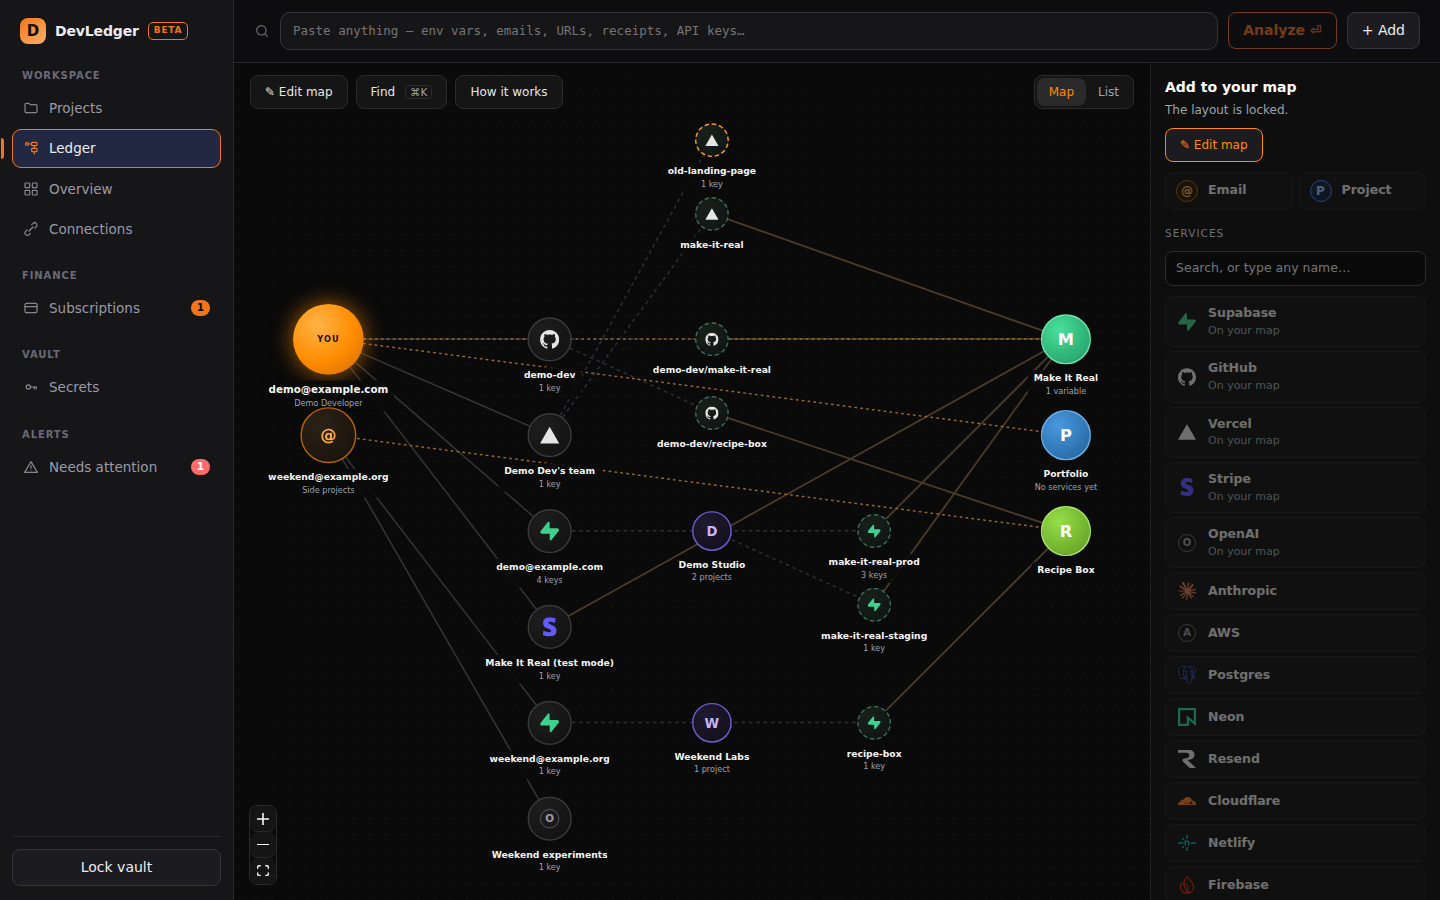
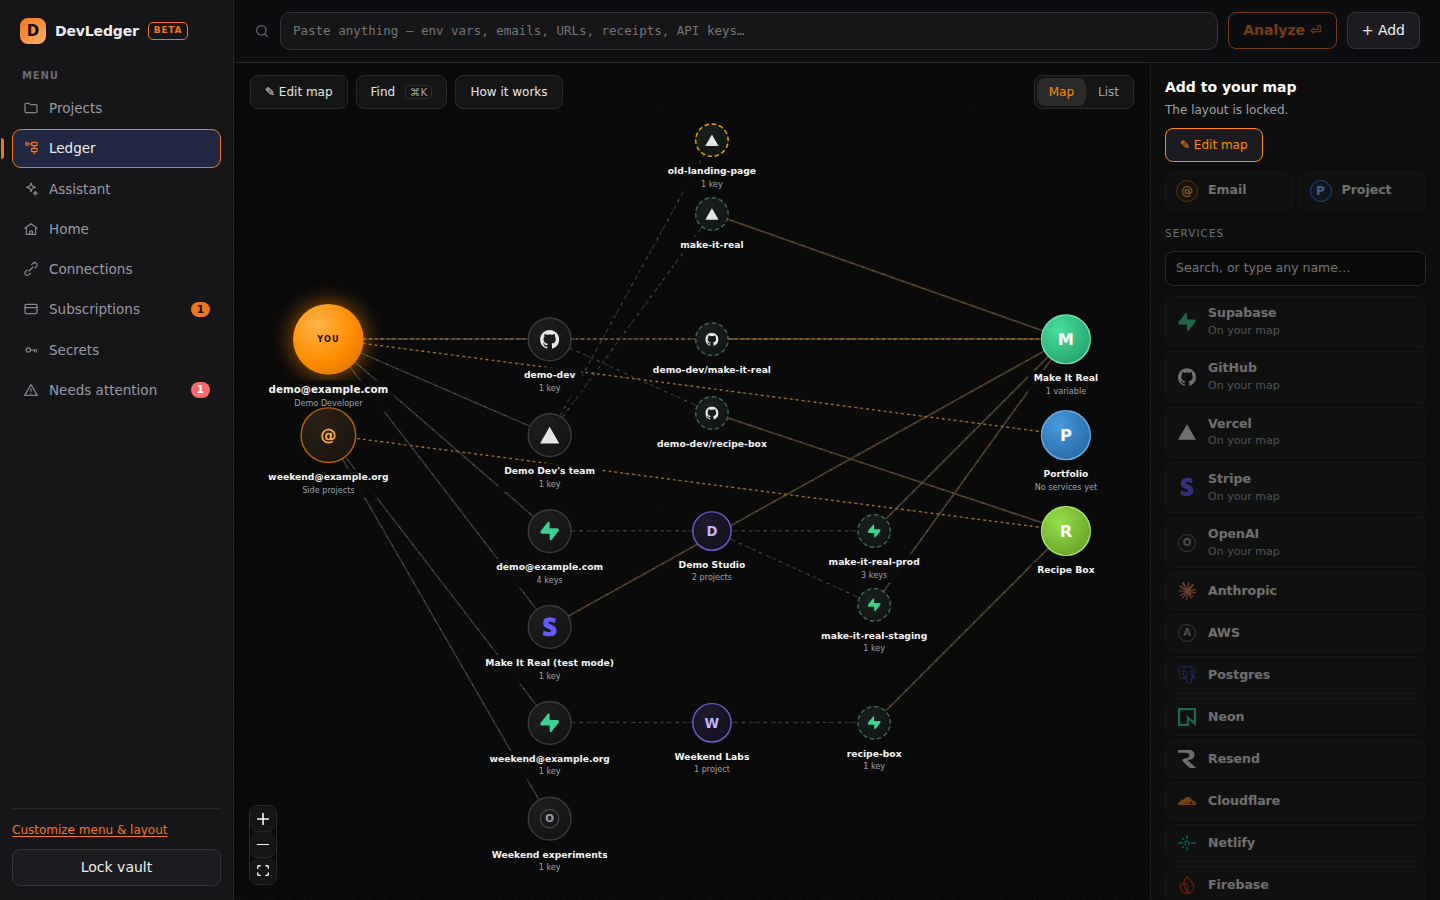
v0.14.0: smoother on a phone, a fresher landing page (#55)
A sweep of every screen at phone width, and the release that carries Home,
templates and the web app to the desktop and Android builds.

- Phone: secrets, project variables and subscriptions become cards instead of
  tables cut off at the right edge, so Copy and Reveal are always in reach.
  Page headers stack their action under the title.
- The Ledger opens as the list on a phone-sized screen, where the whole map is
  too small to read; the map is one tap away and the choice is remembered.
- In the browser builds, a project's page drops its Smart Paste box, which
  could only refuse there.
- Landing page: three new cards (your own layout, on your phone, you can
  always leave) and fresh screenshots of the map and of Home on a phone.
- SECURITY.md says where the layout lives and what a shared template carries.
- README: what is new in 0.14; links point at devledger.nyttolabs.com.
- Version 0.14.0.

Claude-Session: https://claude.ai/code/session_01JdSEbfq5oscHXzX9rbuySh

diff --git a/apps/desktop/src/components/Projects.tsx b/apps/desktop/src/components/Projects.tsx
@@ -2,6 +2,7 @@ import { lazy, Suspense, useEffect, useMemo, useRef, useState } from "react";
 
 import * as api from "../lib/api";
 import { formatTime, plural } from "../lib/format";
+import { WEB } from "../lib/platform";
 import { pasteHints } from "../lib/pasteHints";
 import type { ProjectSummary } from "../lib/types";
 
@@ -315,36 +316,39 @@ function ProjectDetail({
 
       {tab === "overview" ? (
         <div className="vp-overview">
-          <section className="vp-paste" aria-label="Paste">
-            <textarea
-              aria-label={`Paste into ${name}`}
-              placeholder={`Paste a .env file, an API key (re_…, sk_…) or a few lines about ${name}. DevLedger works out what it is and files it here.`}
-              spellCheck={false}
-              value={text}
-              onChange={(e) => setText(e.target.value)}
-              onKeyDown={(e) => {
-                if (e.key === "Enter" && (e.metaKey || e.ctrlKey)) analyze();
-              }}
-            />
-            <div className="vp-paste-foot">
-              <span className="vp-hints" aria-live="polite">
-                {hints.length === 0
-                  ? text.trim()
-                    ? "Nothing recognised yet — analysis may still find something."
-                    : "Detects .env lines, Resend, Stripe, Anthropic, OpenAI and GitHub keys."
-                  : hints.map((h) => (
-                      <span key={h.label} className="vp-hint">
-                        {h.count > 1 ? `${h.count} × ` : ""}
-                        {h.label}
-                      </span>
-                    ))}
-              </span>
-              <span className="spacer" />
-              <button type="button" className="primary" onClick={analyze} disabled={!text.trim() || analyzing}>
-                {analyzing ? "Analyzing…" : `Add to ${name}`}
-              </button>
-            </div>
-          </section>
+          {/* Smart Paste needs the desktop app; in the browser this box could only refuse. */}
+          {!WEB && (
+            <section className="vp-paste" aria-label="Paste">
+              <textarea
+                aria-label={`Paste into ${name}`}
+                placeholder={`Paste a .env file, an API key (re_…, sk_…) or a few lines about ${name}. DevLedger works out what it is and files it here.`}
+                spellCheck={false}
+                value={text}
+                onChange={(e) => setText(e.target.value)}
+                onKeyDown={(e) => {
+                  if (e.key === "Enter" && (e.metaKey || e.ctrlKey)) analyze();
+                }}
+              />
+              <div className="vp-paste-foot">
+                <span className="vp-hints" aria-live="polite">
+                  {hints.length === 0
+                    ? text.trim()
+                      ? "Nothing recognised yet — analysis may still find something."
+                      : "Detects .env lines, Resend, Stripe, Anthropic, OpenAI and GitHub keys."
+                    : hints.map((h) => (
+                        <span key={h.label} className="vp-hint">
+                          {h.count > 1 ? `${h.count} × ` : ""}
+                          {h.label}
+                        </span>
+                      ))}
+                </span>
+                <span className="spacer" />
+                <button type="button" className="primary" onClick={analyze} disabled={!text.trim() || analyzing}>
+                  {analyzing ? "Analyzing…" : `Add to ${name}`}
+                </button>
+              </div>
+            </section>
+          )}
 
           <section className="vp-tree" aria-label={`What ${name} runs on`}>
             <Suspense fallback={<div className="empty">Loading…</div>}>

diff --git a/apps/desktop/src/styles.css b/apps/desktop/src/styles.css
@@ -1764,3 +1764,32 @@ select option { background: var(--panel); color: var(--text); }
   .pastebar-note { display: none; }
   .pastebar-web .add-anything-btn { flex: 1; padding: 10px; font-size: 14px; }
 }
+
+/* ---- phone: tables become cards ------------------------------------------------
+   Secrets, project variables and subscriptions are tables on a desk. On a phone
+   each row is a card instead, so nothing (least of all Copy and Reveal) sits
+   off the right edge. */
+@media (max-width: 800px) {
+  table.secrets, table.secrets tbody { display: block; overflow: visible; }
+  table.secrets thead { display: none; }
+  table.secrets tr {
+    display: flex; flex-wrap: wrap; align-items: center; gap: 6px 12px;
+    padding: 12px 14px; margin: 0 0 10px; border: 1px solid var(--border);
+    border-radius: 12px; background: var(--panel);
+  }
+  table.secrets tr:hover td { background: transparent; }
+  table.secrets td, table.secrets th { white-space: normal; }
+  table.secrets td { display: block; padding: 0; border: 0; min-width: 0; }
+  table.secrets td:first-child, table.secrets td:last-child { flex-basis: 100%; }
+  table.secrets td:empty { display: none; }
+  table.secrets .revealed { word-break: break-all; }
+  table.secrets .row-acts { justify-content: flex-start; flex-wrap: wrap; padding-top: 4px; }
+  table.secrets .row-acts button { padding: 8px 12px; font-size: 13px; }
+}
+@media (max-width: 800px) {
+  /* Page headers with an action: title on top, the button full width under it. */
+  .vault-head { flex-wrap: wrap; gap: 10px; }
+  .vault-head > .spacer { display: none; }
+  .vault-head > .acts { flex-basis: 100%; }
+  .vault-head > .acts > button { width: 100%; }
+}

diff --git a/apps/desktop/src/components/LedgerView.test.tsx b/apps/desktop/src/components/LedgerView.test.tsx
@@ -1,0 +1,36 @@
+import { render, screen } from "@testing-library/react";
+import userEvent from "@testing-library/user-event";
+import { afterEach, describe, expect, it, vi } from "vitest";
+
+import LedgerView from "./LedgerView";
+
+vi.mock("./LedgerCanvas", () => ({ default: () => <div data-testid="map" /> }));
+vi.mock("./LedgerList", () => ({ default: () => <div data-testid="list" /> }));
+
+const width = (w: number) => Object.defineProperty(window, "innerWidth", { configurable: true, value: w });
+
+afterEach(() => {
+  window.localStorage.clear();
+  width(1024);
+});
+
+describe("the Ledger's first view", () => {
+  it("opens as the map on a desk", async () => {
+    width(1280);
+    render(<LedgerView onNotify={vi.fn()} onChanged={vi.fn()} />);
+    expect(await screen.findByTestId("map")).toBeInTheDocument();
+  });
+
+  it("opens as the list on a phone, and remembers a switch to the map", async () => {
+    const user = userEvent.setup();
+    width(390);
+    const { unmount } = render(<LedgerView onNotify={vi.fn()} onChanged={vi.fn()} />);
+    expect(screen.getByTestId("list")).toBeInTheDocument();
+    await user.click(screen.getByRole("button", { name: "Map" }));
+    expect(await screen.findByTestId("map")).toBeInTheDocument();
+    unmount();
+
+    render(<LedgerView onNotify={vi.fn()} onChanged={vi.fn()} />);
+    expect(await screen.findByTestId("map")).toBeInTheDocument();
+  });
+});

diff --git a/apps/desktop/src/components/LedgerView.tsx b/apps/desktop/src/components/LedgerView.tsx
@@ -16,6 +16,22 @@ interface Props {
 type Mode = "map" | "list";
 
 const ZOOM_KEY = "devledger.listZoom";
+const MODE_KEY = "devledger.ledgerMode";
+
+/**
+ * The map unless the user chose otherwise. On a phone-sized screen the list
+ * opens first: the whole map squeezed into 390 pixels is too small to read,
+ * and the map is one tap away.
+ */
+function readMode(): Mode {
+  try {
+    const m = window.localStorage.getItem(MODE_KEY);
+    if (m === "map" || m === "list") return m;
+  } catch {
+    // Storage blocked: fall through to the screen-size default.
+  }
+  return window.innerWidth <= 800 ? "list" : "map";
+}
 const ZOOMS = [0.7, 0.8, 0.9, 1, 1.1];
 
 function readZoom(): number {
@@ -34,7 +50,16 @@ function readZoom(): number {
  * it stays; the map is what opens. The list can be zoomed out to see more.
  */
 export default function LedgerView({ onNotify, onChanged, refreshKey, onOpenProject }: Props) {
-  const [mode, setMode] = useState<Mode>("map");
+  const [mode, setModeState] = useState<Mode>(readMode);
+
+  function setMode(next: Mode) {
+    setModeState(next);
+    try {
+      window.localStorage.setItem(MODE_KEY, next);
+    } catch {
+      // Not remembered; nothing else to do.
+    }
+  }
   const [zoom, setZoom] = useState(readZoom);
 
   function zoomBy(step: number) {

diff --git a/apps/desktop/web/index.html b/apps/desktop/web/index.html
@@ -100,6 +100,27 @@
             </p>
           </article>
           <article>
+            <h3>Your own layout</h3>
+            <p>
+              Home is a page of boxes you arrange: numbers, projects, trials, spend, and notes you write yourself. Pick
+              the tabs and their order, start from a template, save your own and share it as a code.
+            </p>
+          </article>
+          <article>
+            <h3>On your phone</h3>
+            <p>
+              The <a href="/app">web app</a> runs in any browser, phones included, with your vault encrypted in that
+              browser. Four tabs in thumb's reach, the rest under More, and tables that turn into cards.
+            </p>
+          </article>
+          <article>
+            <h3>You can always leave</h3>
+            <p>
+              Back up the web app's vault as a file, still encrypted with your passphrase, and open it in another
+              browser. No account, no lock-in, no copy with us.
+            </p>
+          </article>
+          <article>
             <h3>Connect Supabase</h3>
             <p>
               Optional: give DevLedger a Supabase access token and it reads your organizations and projects so

diff --git a/README.md b/README.md
@@ -12,9 +12,18 @@ DevLedger keeps it in one encrypted file on your own computer.
   the same app on made-up sample data.
 - **Download:** [latest release](https://github.com/jonjys/devledger/releases/latest)
   for Windows, Linux and Android. Checksums and install notes are on
-  [the website](https://devledger-six.vercel.app/#download).
+  [the website](https://devledger.nyttolabs.com/#download).
 
 ![The DevLedger map](apps/desktop/web/public/screenshot-map.png)
+
+**New in 0.14: make it yours.** Overview becomes Home, a page of boxes you
+arrange: numbers, projects, trials, spend, needs attention, key names and notes
+you write yourself. Choose which tabs the menu shows and in what order, start
+from one of six templates, save your own and share it as a code. On a phone the
+bar holds four tabs and More, and tables become cards. The layout is stored in
+your vault. The website also has a [web app](https://devledger.nyttolabs.com/app)
+that keeps its own encrypted vault in your browser, with backups you can
+download, and a [page on how to check all this yourself](https://devledger.nyttolabs.com/trust).
 
 **New in 0.13: an AI assistant that never sees a key.** Add your own Anthropic
 API key and ask DevLedger to review your setup, plan the rotation of a leaked
@@ -39,7 +48,7 @@ from the tagged source, and GitHub lists a SHA-256 next to each one.
 **More info → Run anyway**. To check you have the file GitHub built:
 
 ```powershell
-Get-FileHash .\DevLedger_0.13.0_x64-setup.exe -Algorithm SHA256
+Get-FileHash .\DevLedger_0.14.0_x64-setup.exe -Algorithm SHA256
 ```
 
 and compare it with the checksum on the release page or the website.
@@ -51,7 +60,7 @@ There is no macOS build yet.
 
 ## Status
 
-Version 0.13. Pre-release software that has not had an independent security
+Version 0.14. Pre-release software that has not had an independent security
 audit: the guarantees in [`docs/SECURITY.md`](docs/SECURITY.md) are the design
 intent, checked by the test suite and `scripts/security-check.sh`, not the
 result of external review. A forgotten passphrase cannot be recovered.

diff --git a/docs/SECURITY.md b/docs/SECURITY.md
@@ -228,6 +228,16 @@ without the credentials. Nothing in the graph is stored outside the SQLCipher
 file, and email addresses are additionally blind-indexed so duplicate detection
 never needs a plaintext comparison.
 
+The interface layout (the boxes on Home, their titles, notes typed into them,
+the tab order and saved templates) is one JSON document in the `settings`
+table under `ui.layout`. It is protected by the database encryption like the
+graph, not sealed a second time like secrets, so a note is the wrong place for
+a key. The core caps it at 256 KB and accepts only a JSON object; the interface
+keeps only box kinds and tabs it knows and caps every length when it reads it
+back. Changing it is not audited. A shared template code carries boxes, titles
+and note text, never ledger data, and the interface asks before sharing one
+whose notes have text.
+
 ## Reporting
 
 This is pre-release software and has not been independently audited. Treat the
